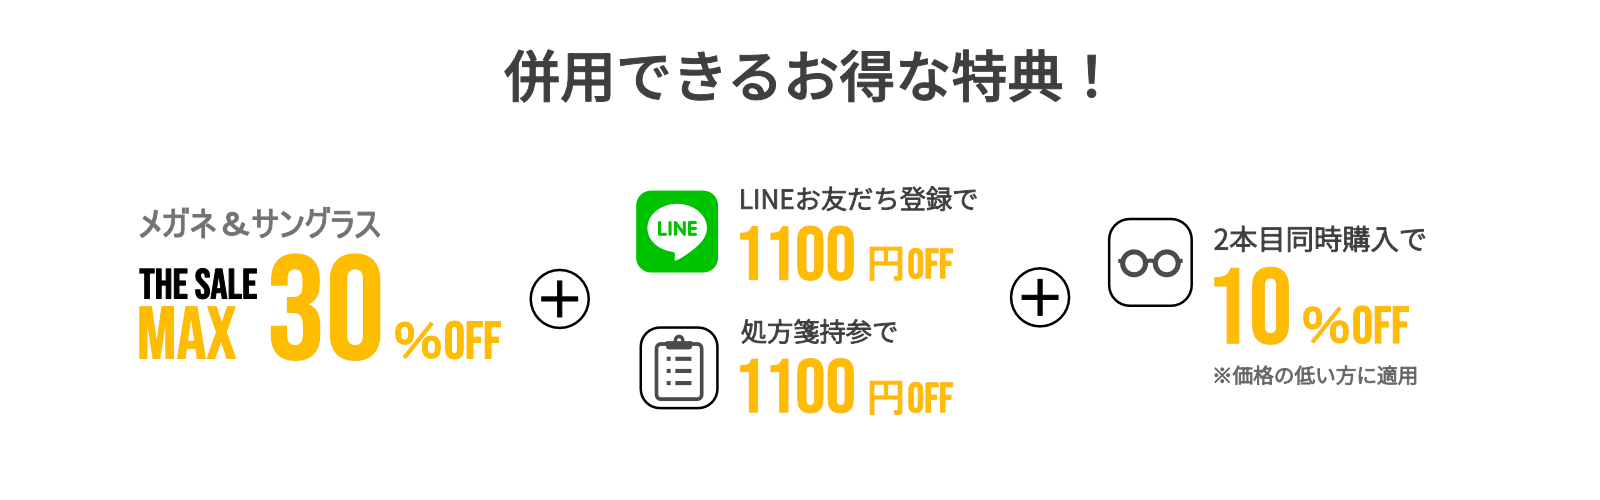
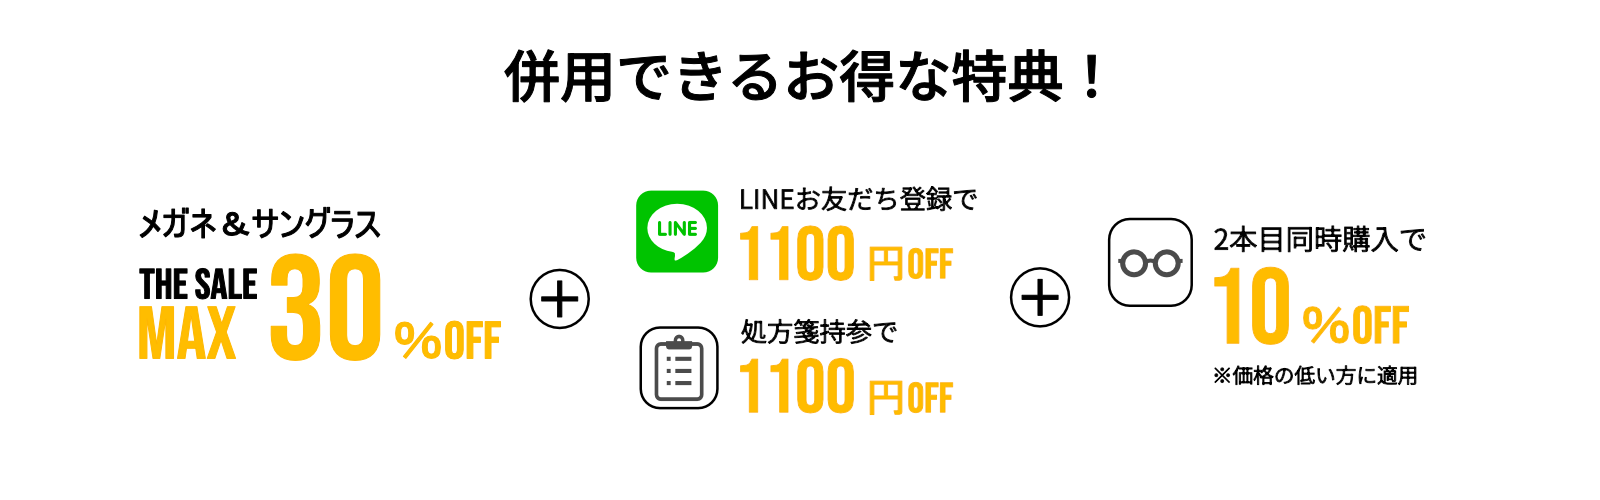
FVのメガネ写真が見えない不具合と、日付「まで」が画面幅によって切れる不具合を修正

diff --git a/index.html b/index.html
@@ -592,7 +592,7 @@
   /* レンズアップグレード紹介 */
   .lens-standard-note {
     max-width: 1000px; margin: 0 auto 24px; text-align: left;
-    font-size: clamp(16px, 2.2vw, 20px); line-height: 1.6; color: #444;
+    font-size: clamp(16px, 2.2vw, 20px); line-height: 1.6; color: #111;
     white-space: nowrap;
   }
   @media (max-width: 900px) {
@@ -601,7 +601,7 @@
   @media (max-width: 480px) {
     .lens-standard-note { font-size: 13px; white-space: nowrap; }
   }
-  .lens-photo-disclaimer { max-width: 1000px; margin: -16px auto 24px; text-align: left; font-size: 12px; color: #999; }
+  .lens-photo-disclaimer { max-width: 1000px; margin: -16px auto 24px; text-align: left; font-size: 12px; color: #111; }
   .lens-list {
     max-width: 1100px; margin: 0 auto;
     display: flex; flex-direction: column; gap: 24px;
@@ -669,7 +669,7 @@
   .faq-item[open] .faq-q { background: #FAF6EE; }
   .faq-q-label {
     display: flex; align-items: center; justify-content: center; flex-shrink: 0;
-    width: 32px; height: 32px; border-radius: 50%;
+    width: 32px; height: 32px; border-radius: 50%; line-height: 1; padding-bottom: 2px; box-sizing: border-box;
     background: #E30212; color: #fff; font-size: 15px; font-weight: 900;
   }
   .faq-q-text { flex: 1; color: #111; text-wrap: balance; }
